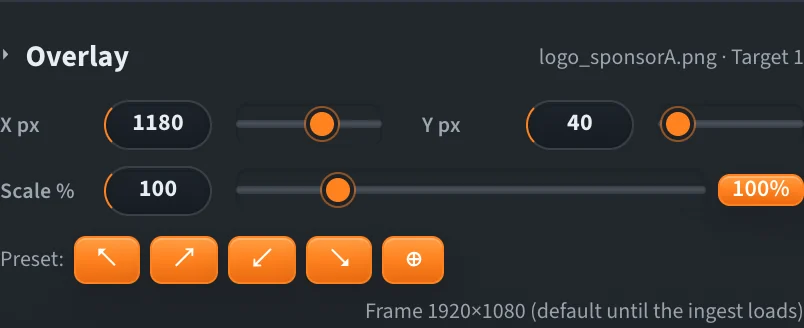
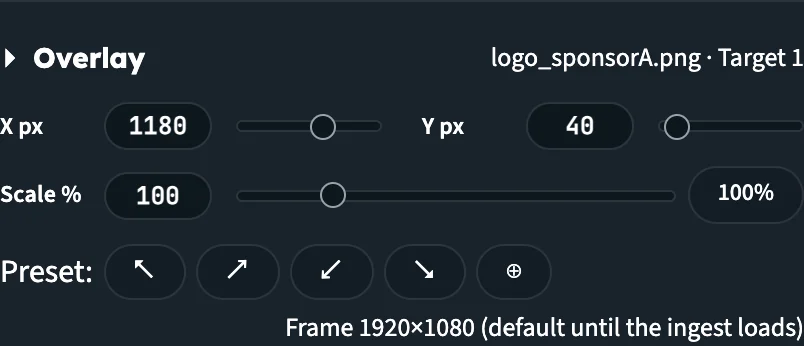
Chroma Key docs: update for the Product Theme tuner (Tuner 5.5.1)
Match chromakey MR !13 (design/setup-refresh-guidance):
- Recapture all tuner screenshots on the new theme
- New "Guided setup" section for chroma-setup-tuner-steps.html
  (Sign in, Backgrounds, Streams, Tune & apply), linked from the tip
- Guidance colours: Preview blue, Live orange; ingest Receiving blue,
  Waiting for signal orange; output card In preview / On air tags
- Required fields outlined in orange; bitrate warnings are badges in the
  file list and picker (no field border any more)
- ?mode=live opens a shared setup straight on the Live player
- Builder Hub: Set up chroma key opens the guided setup

diff --git a/docs/nanostudio/chroma_key_getting_started.md b/docs/nanostudio/chroma_key_getting_started.md
@@ -15,6 +15,8 @@ You set everything up in the **Chroma Setup Tuner**, a browser tool that creates
 
 :::tip Open the tuner
 [chromakey.nanocosmos.net/chroma-setup-tuner.html](https://chromakey.nanocosmos.net/chroma-setup-tuner.html)
+
+Prefer to be guided? The [guided setup](https://chromakey.nanocosmos.net/chroma-setup-tuner-steps.html) shows the same tool as four numbered steps. See [Guided setup](#guided-setup).
 :::
 
 :::info Also in the Builder Hub
@@ -63,6 +65,20 @@ Every ingest and target is a regular nanoStream Cloud stream. It shows up in the
 | **Encoder** | OBS, vMix, ffmpeg or a hardware encoder that can send RTMP. See [Live Encoding](../cloud/live_encoding). |
 | **Backgrounds** | MP4 video, PNG or JPG at the same resolution as your camera (1280×720 or 1920×1080) |
 | **Browser** | A current version of Chrome, Firefox, Edge or Safari |
+
+## Guided setup
+
+The guided setup page shows the same tool as four numbered steps: **Sign in**, **Backgrounds**, **Streams** and **Tune & apply**.
+
+- Each step unlocks when the one before it is done, then collapses to a one-line summary with a tick. **Change** reopens it.
+- **Backgrounds** is optional. Click **Continue** when your files are uploaded, or **Skip** if they already are.
+- **Tune & apply** has two phases: **Preview tuning**, then **Live Apply**. Live Apply shows *Changes not applied yet* until you apply, and *Outputs in sync* afterwards.
+
+![The guided setup: Sign in, Backgrounds and Streams done with a tick and a summary each, and Tune & apply open with its Preview tuning and Live Apply phases](../assets/nanostudio/ui/chroma-ui-steps-journey.webp)
+
+_The guided setup with the first three steps done and Tune & apply open._
+
+Inside each step you use the same controls as on the standard tuner page, so the steps below apply to both pages.
 
 ## Step 1: Sign in
 
@@ -126,7 +142,7 @@ Open **Stream Setup** and choose one of these:
 To create new streams:
 
 1. Set **Targets** to the number of outputs you need. Each output gets its own row. Optionally add **Ingest tags** for the ingest stream, or turn on **Add timecode** to add timecode metadata to the new streams.
-2. For each row, choose a **Background**. You can pick an uploaded file, type a filename or URL, or enter the stream name or stream ID of another live stream to use it as the background.
+2. For each row, choose a **Background**. Required fields are outlined in orange until you fill them. You can pick an uploaded file, type a filename or URL, or enter the stream name or stream ID of another live stream to use it as the background.
 3. Optionally choose an **Overlay** PNG, add **Tags** (for example `sponsorA, studio1`), and tap the **Transcodes** you want for adaptive bitrate playback.
 4. Click **Create Chroma Key Streams**.
 
@@ -170,8 +186,8 @@ The signal strip checks the ingest every 5 seconds and shows when it last checke
 
 | Strip | Meaning |
 |---|---|
-| **Receiving** (green, moving bars) | Your encoder is publishing to the ingest. The card's accent turns green. |
-| **Waiting for signal** (red, pulsing) | Nothing is arriving yet. Check the Server and Stream Key in your encoder. |
+| **Receiving** (blue, moving bars) | Your encoder is publishing to the ingest. The card calms to a plain blue frame. |
+| **Waiting for signal** (orange, pulsing) | Nothing is arriving yet, and the whole card lights up orange. Check the Server and Stream Key in your encoder. |
 | **Status unknown** (grey) | The check failed. It keeps retrying. |
 
 If the Live player or the foreground says the stream isn't live, click **Where do I publish? →** to jump back to the ingest card.
@@ -191,14 +207,14 @@ The **Live composite** workbench shows a preview on the left and the key control
 
 ![The Live composite workbench in Preview mode: a keyed presenter over a casino background with a sponsor logo, and the key controls on the right](../assets/nanostudio/ui/chroma-ui-workbench-preview.webp)
 
-_Preview mode after Autotune. The preview shows the target that is selected (amber), with its background and overlay._
+_Preview mode after Autotune. The selected target and the preview frame are blue, and the preview shows that target's background and overlay._
 
 For what each control does, see [Tuning the Key](chroma_key_tuning).
 
 ## Step 5: Go live
 
 1. Switch to **Live**.
-2. Click a target tab to put it **on-air**. The red tally shows which output is on air. Key, despill and EQ settings apply to all outputs; overlay position applies to the output you've selected. Switching between sources only changes the player and doesn't restart the stream.
+2. Click a target tab to put it **on-air**. The orange tally shows which output is on air. Key, despill and EQ settings apply to all outputs; overlay position applies to the output you've selected. Switching between sources only changes the player and doesn't restart the stream.
 3. Adjust the controls. In Live mode **every chroma control works in real time**: key colour, similarity, blend, despill, EQ and overlay position go to the running stream straight away, without restarting it. The status line tells you the change is applied to the running process but not saved yet.
 4. Click **Apply Now** to save your settings to the stream, so they're kept when the stream restarts. New backgrounds and overlays also need Apply: an output card shows **● Needs Apply** until you do.
 
@@ -209,9 +225,9 @@ For what each control does, see [Tuning the Key](chroma_key_tuning).
 
 The Apply button reads **Apply Now** in Live mode and **Apply to Stream** in Preview mode.
 
-![The workbench in Live mode with target 1 on-air, shown by a red tally and a red border around the player](../assets/nanostudio/ui/chroma-ui-workbench-live.webp)
+![The workbench in Live mode with target 1 on-air, shown by an orange Live switch, an orange source tab and an orange frame around the player](../assets/nanostudio/ui/chroma-ui-workbench-live.webp)
 
-_Live mode: the red tally and border show the on-air target. You see your changes on it in real time._
+_Live mode: the orange tally and frame show the on-air target. You see your changes on it in real time._
 
 **Player ↗** opens the outputs in a standalone player, and **Multiplayer ↗** shows the ingest and all targets side by side.
 
@@ -244,6 +260,8 @@ The tuner restores the key settings, targets, backgrounds and overlays. On a loa
 - click **+ Add output** to add a new target without touching the others
 
 To hand a setup to someone else, click **Copy setup link** on the ingest card. The link reopens this setup and never contains your API key. When they open it, the setup ID is filled in and the setup loads as soon as they sign in.
+
+To open a setup straight on the Live player, add `&mode=live` to the link, for example `chroma-setup-tuner.html?stream=<ingest ID>&mode=live`. After sign-in, the setup loads and goes on air with its first target instead of opening in Preview.
 
 ## Next steps
 

diff --git a/docs/nanostudio/chroma_key_troubleshooting.md b/docs/nanostudio/chroma_key_troubleshooting.md
@@ -35,7 +35,7 @@ Stop & unlock and Bounce restart the ingest and briefly interrupt the stream. Ke
 
 ## Player shows a black screen
 
-- Look at the signal strip on the ingest card. **Waiting for signal** (red) means nothing is arriving: check that your encoder uses the **Server** and **Stream Key** from the ingest card. **Where do I publish? →** takes you there.
+- Look at the signal strip on the ingest card. **Waiting for signal** (the card lights up orange) means nothing is arriving: check that your encoder uses the **Server** and **Stream Key** from the ingest card. **Where do I publish? →** takes you there.
 - Check the server in your encoder: it must be `rtmp://bintu-studio.nanocosmos.de/live`. Another RTMP server can accept your stream without starting the chroma key, so the outputs stay black even though the ingest is live.
 - Make sure your encoder publishes to the ingest, not to an output. An output's **Output name** isn't a publish target.
 - Check that playback isn't paused (click **Start playback**).
@@ -63,7 +63,7 @@ The uploader checks each MP4's average bitrate. Files above **8 Mbps** get a ⚠
 
 ### All my outputs went offline or started stuttering after I changed a background
 
-A background with a very high bitrate can overload the processing job that renders **all** your outputs. Check whether the background has a ⚠ or ✕ badge in **Backgrounds**, or an amber or red border on its Background field. If it does, switch that output back to a lighter background, re-encode the heavy file (see [Prepare MP4 backgrounds](chroma_key_getting_started#prepare-mp4-backgrounds)) and apply again.
+A background with a very high bitrate can overload the processing job that renders **all** your outputs. Check whether the background has a ⚠ or ✕ badge in **Backgrounds** or in the background picker. If it does, switch that output back to a lighter background, re-encode the heavy file (see [Prepare MP4 backgrounds](chroma_key_getting_started#prepare-mp4-backgrounds)) and apply again.
 
 ### I uploaded a file but it isn't in the background list
 

diff --git a/docs/nanostudio/chroma_key_outputs.md b/docs/nanostudio/chroma_key_outputs.md
@@ -29,7 +29,7 @@ Each output card also shows:
 | On the card | What it means |
 |---|---|
 | **Thumbnail** | A preview of the background: the image, a video frame, a **LIVE** tile for a stream background, or **BG** if it can't load |
-| **In preview** / **On air** | This output is the one selected in the workbench, in Preview (amber) or Live (red) mode |
+| **In preview** / **On air** | This output is the one selected in the workbench. **In preview** is an outlined tag; **On air** is a solid orange tag with an orange frame around the card. |
 | **▷ Preview** | Selects this output in the workbench |
 | **● Needs Apply** | The background or overlay has changed but hasn't been applied yet |
 | **Output name** | The output's stream name. Don't publish to it: your encoder only sends to the ingest. |
@@ -51,11 +51,11 @@ All outputs share one processing job, so one heavy MP4 background can affect **e
 
 | Marker | Meaning |
 |---|---|
-| ⚠ badge in the list, **amber** border on the Background field | Above 8 Mbps: it works, but re-encode it if you can |
-| ✕ badge in the list, **red** border on the Background field | Above 15 Mbps: re-encode it before you use it |
+| ⚠ badge in the file list and the background picker | Above 8 Mbps: it works, but re-encode it if you can |
+| ✕ badge in the file list and the background picker | Above 15 Mbps: re-encode it before you use it |
 | **? bitrate** badge | The bitrate couldn't be read. Click **Refresh** in Backgrounds to check again. |
 
-Hover over a flagged field to see the warning. For the recommended export settings, see [Prepare MP4 backgrounds](chroma_key_getting_started#prepare-mp4-backgrounds).
+Hover over a Background field set to a flagged file to see the warning. For the recommended export settings, see [Prepare MP4 backgrounds](chroma_key_getting_started#prepare-mp4-backgrounds).
 
 ## Overlay
 

diff --git a/docs/nanostudio/chroma_key_tuning.md b/docs/nanostudio/chroma_key_tuning.md
@@ -34,18 +34,18 @@ _The order the controls are applied, from the raw camera frame to the finished o
 
 Above the preview there's a **Preview | Live** switch and a row of source tabs: **Ingest**, then one tab per target, labelled with its number and background (for example **1 · studio_casino_1080**).
 
-![The switcher in Preview mode: target 1 selected with an amber tally](../assets/nanostudio/ui/chroma-ui-switcher-preview.webp)
+![The switcher in Preview mode: the Preview segment and target 1 highlighted in blue](../assets/nanostudio/ui/chroma-ui-switcher-preview.webp)
 
-_Preview: the selected target has an amber tally._
+_Preview: the switch and the selected target are blue._
 
-![The switcher in Live mode: target 1 on-air with a red tally](../assets/nanostudio/ui/chroma-ui-switcher-live.webp)
+![The switcher in Live mode: a solid orange Live segment and target 1 outlined in orange](../assets/nanostudio/ui/chroma-ui-switcher-live.webp)
 
-_Live: the on-air target has a red tally._
+_Live: the switch and the on-air target are orange._
 
 | Mode | Clicking a source tab… | Tally |
 |---|---|---|
-| **Preview** | shows that source in a local preview, so you can experiment without touching the live stream | Amber |
-| **Live** | puts that source **on-air**. Key changes apply to all outputs in real time; you watch them on the on-air output. | Red |
+| **Preview** | shows that source in a local preview, so you can experiment without touching the live stream | Blue |
+| **Live** | puts that source **on-air**. Key changes apply to all outputs in real time; you watch them on the on-air output. | Orange |
 
 ### Preview sources
 

diff --git a/docs/builder-hub/builder_hub_chroma_key.md b/docs/builder-hub/builder_hub_chroma_key.md
@@ -42,7 +42,7 @@ This page covers the chroma key tools inside the Builder Hub. For the full setup
 
 1. In the menu, open **Build › Multi-Brand › Set up chroma key**.
 2. The **Chroma Key Setup** tool opens inside the hub. When you're signed in to the hub, it opens signed in with the same account.
-3. Follow the five steps in the tool: upload backgrounds, create your streams, point your encoder at the ingest, tune the key, and go live.
+3. The tool opens as the **guided setup**, so you work through it step by step: upload backgrounds, create your streams, point your encoder at the ingest, then tune the key and go live. You're already signed in through the hub. See [Guided setup](../nanostudio/chroma_key_getting_started#guided-setup).
 
    Point your encoder at `rtmp://bintu-studio.nanocosmos.de/live` with the ingest's **Stream Key**. Publishing to this server is what starts the chroma key; see [Getting Started](../nanostudio/chroma_key_getting_started).
 
